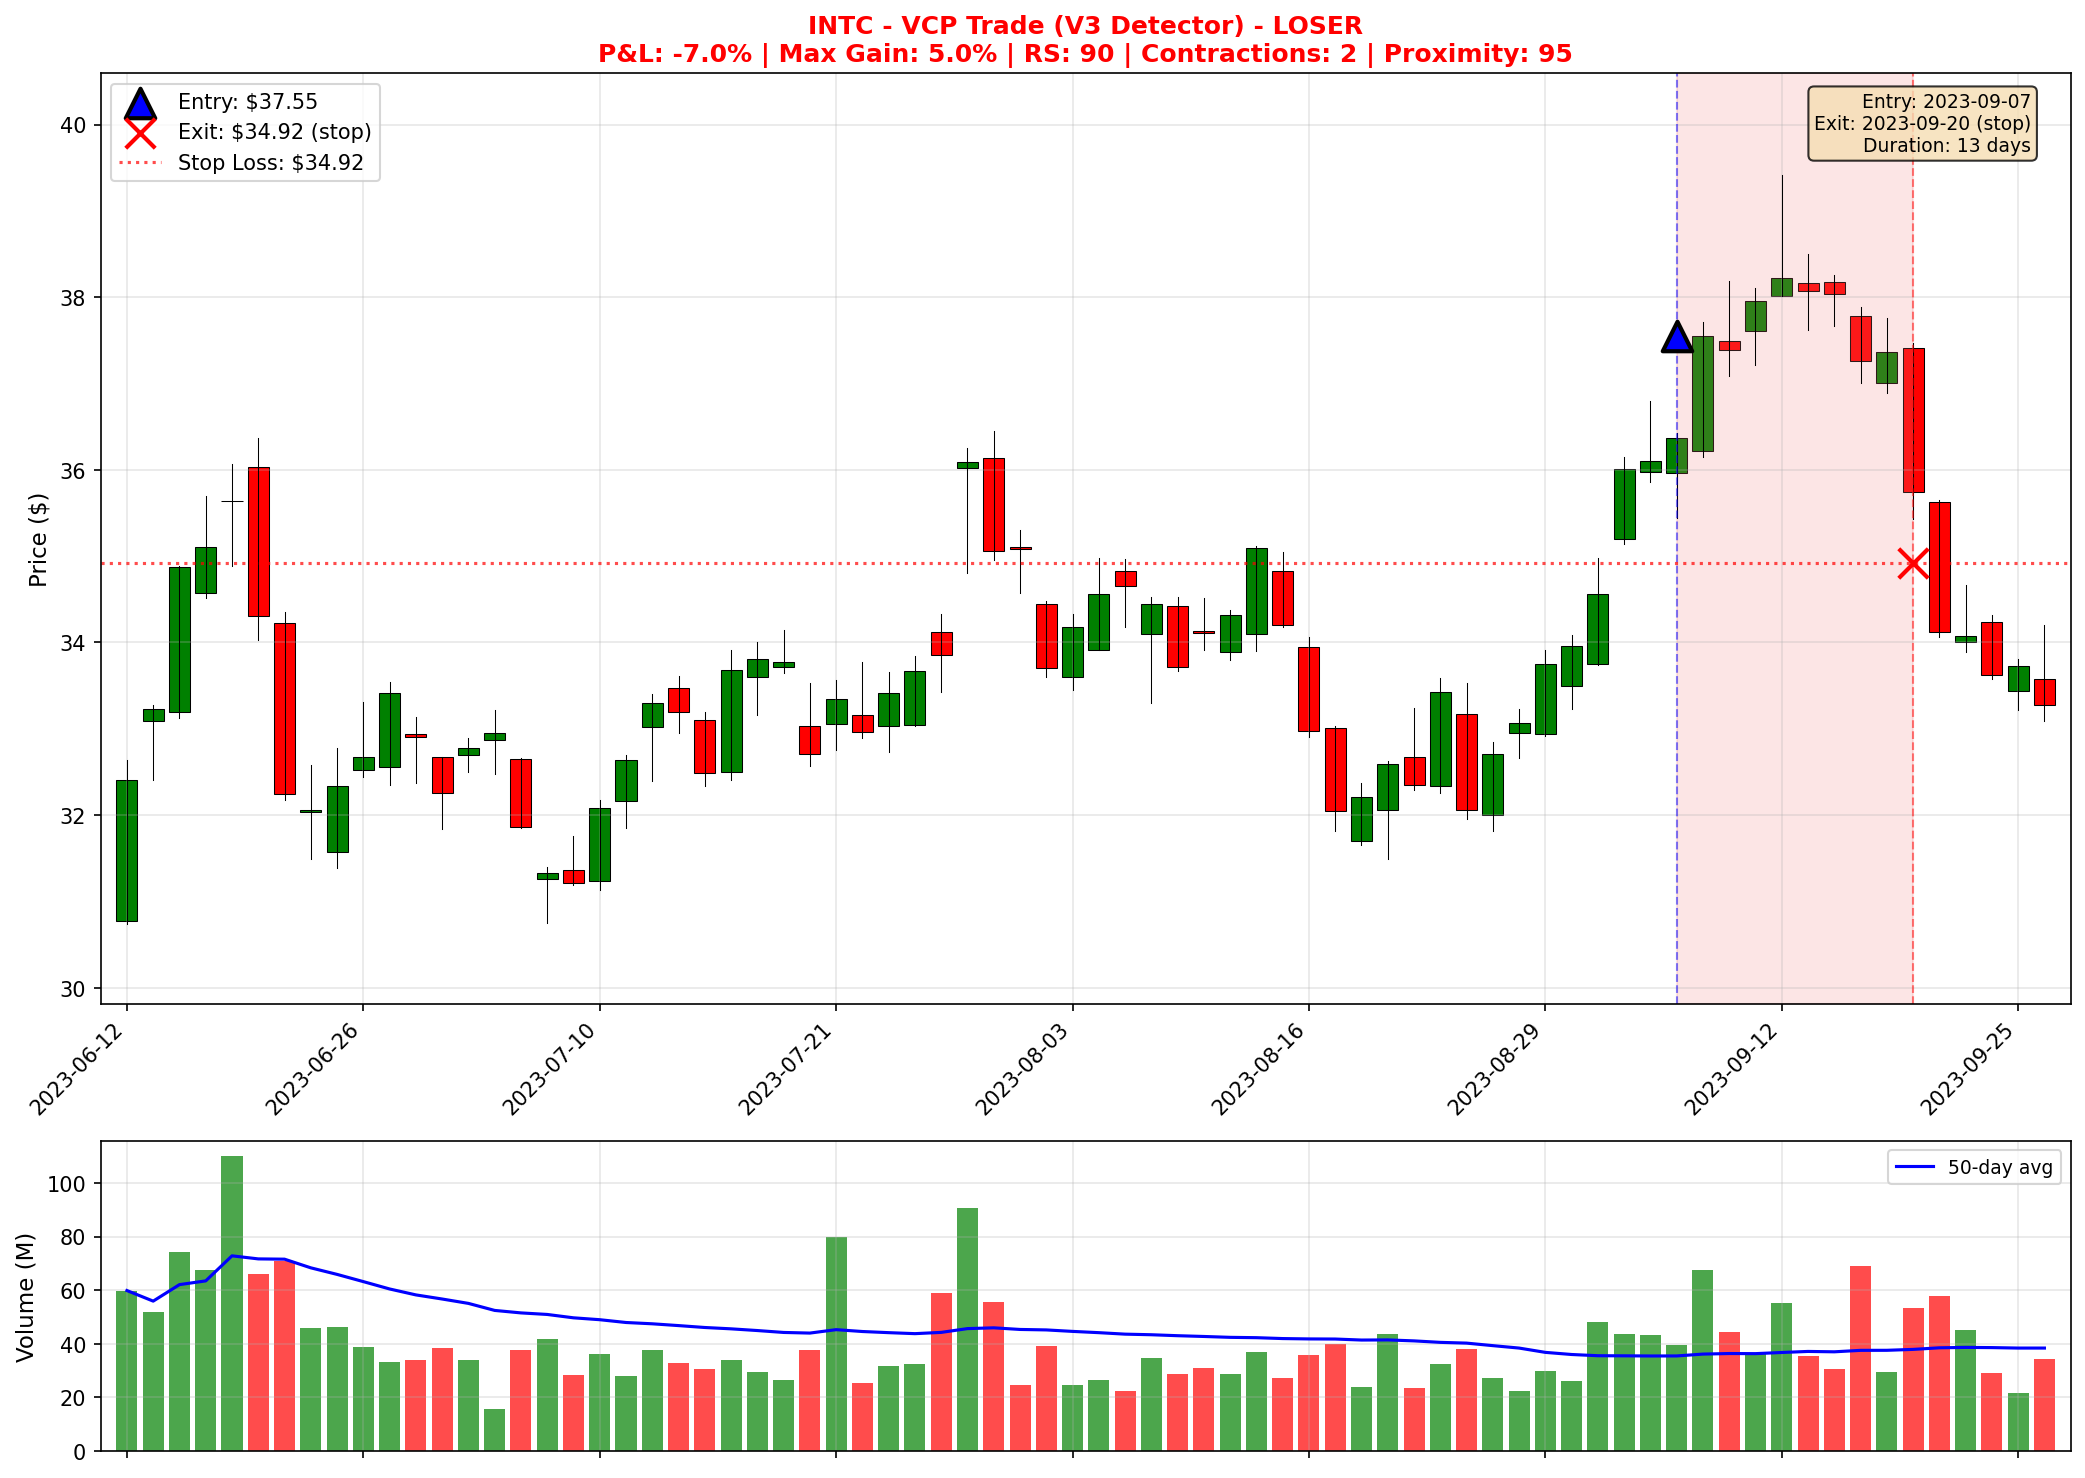
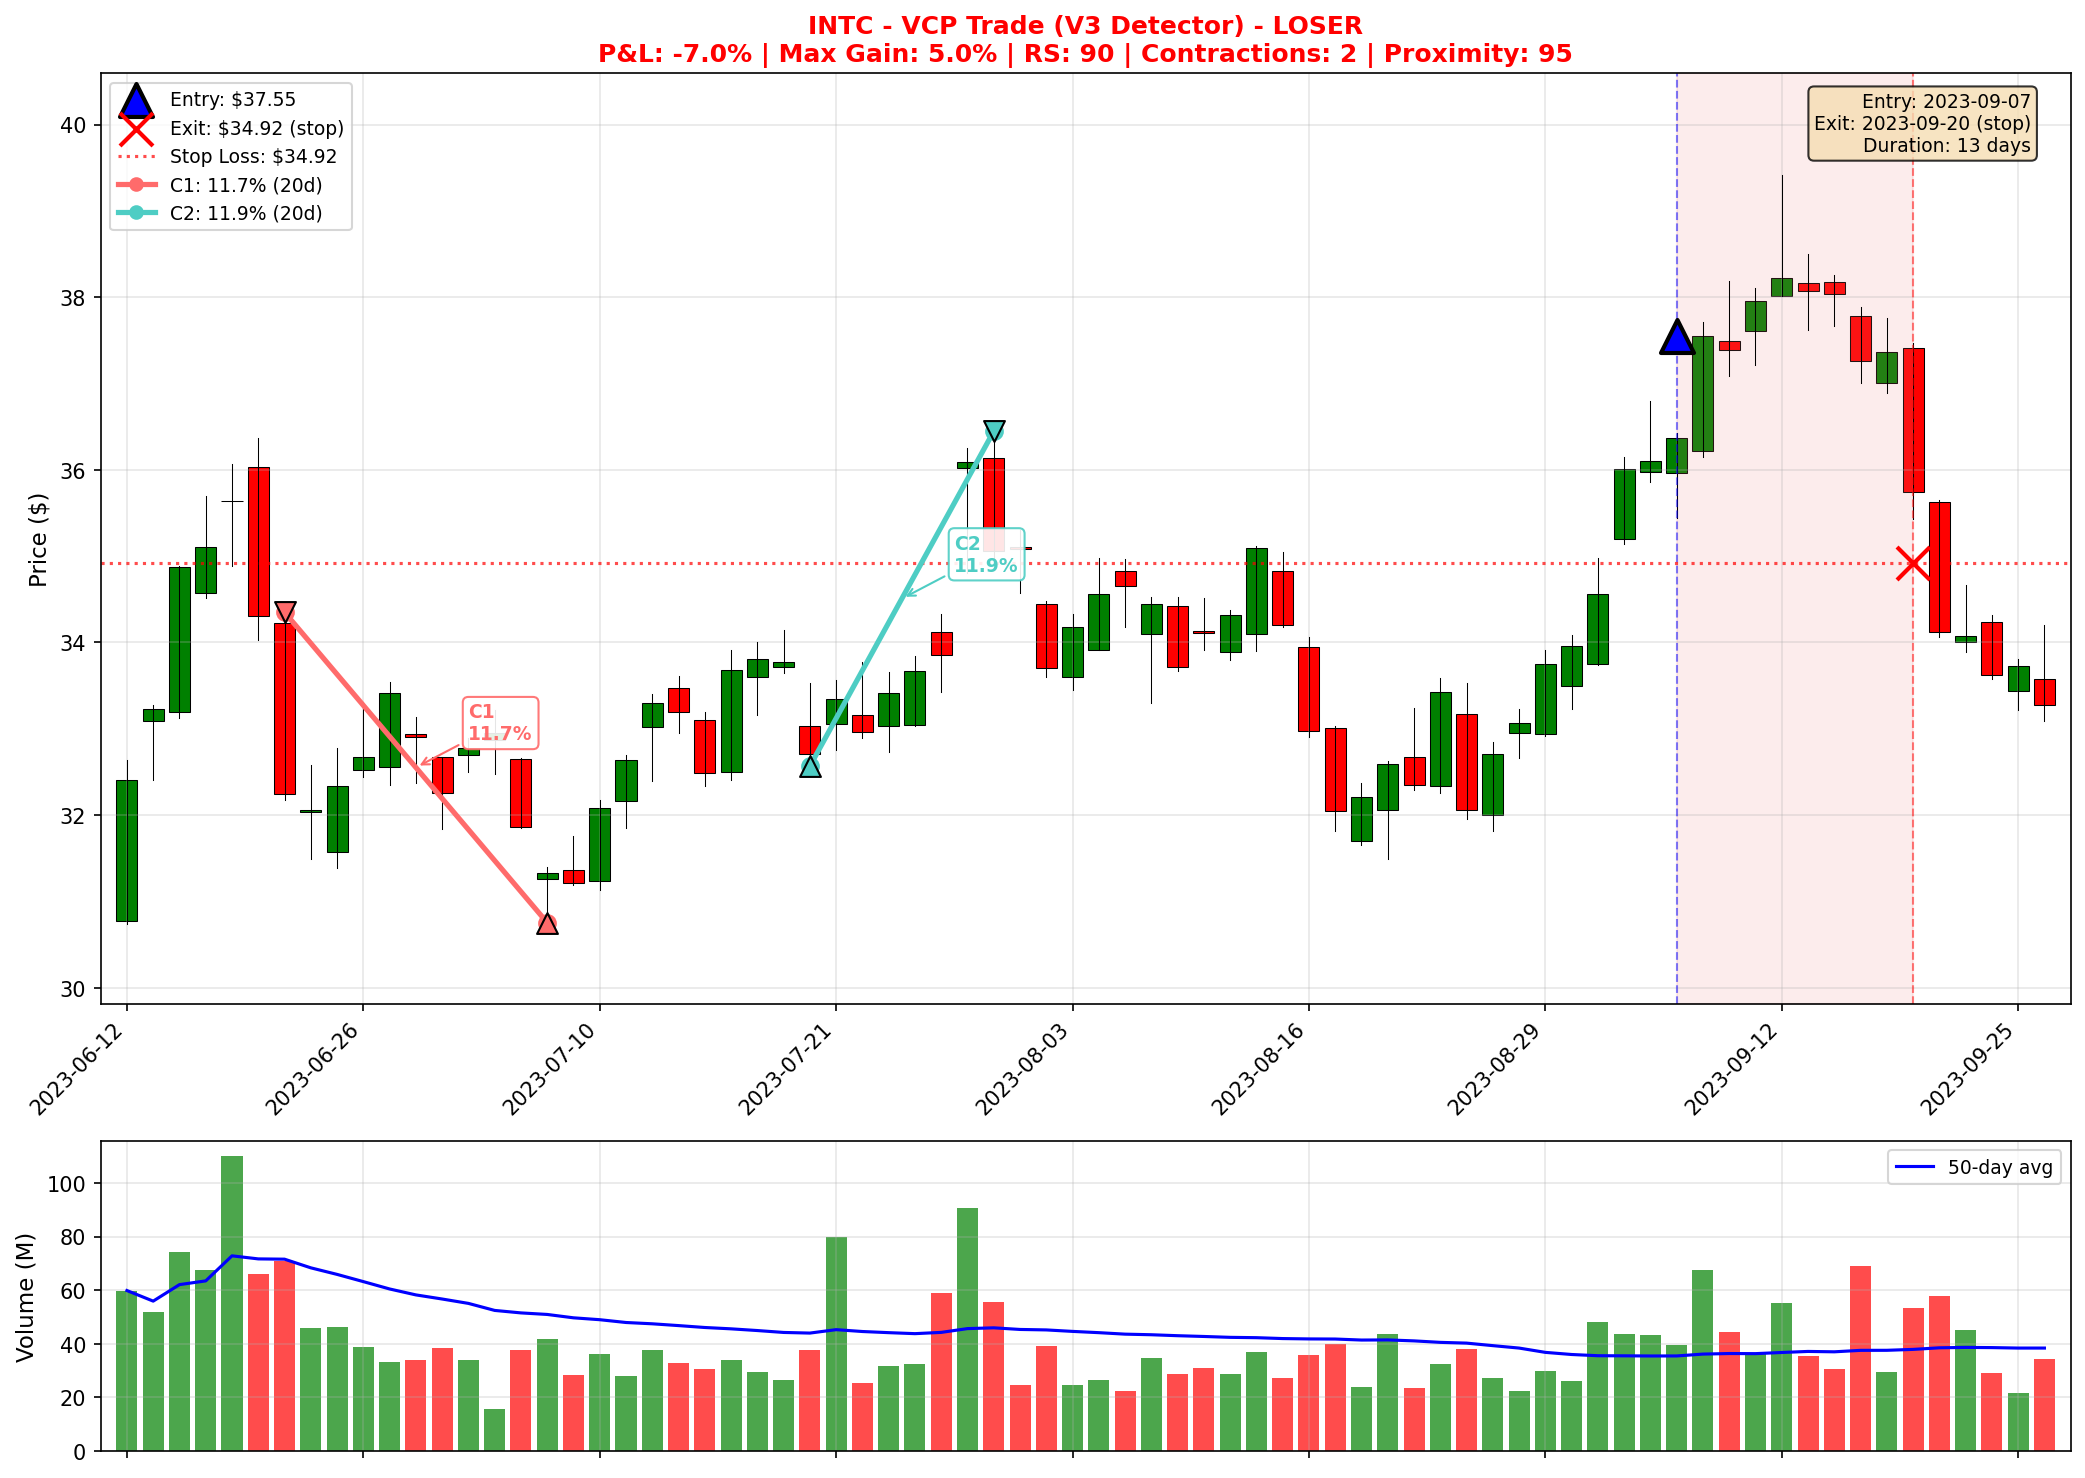
Update sample charts with VCP contraction trendlines and percentage labels
- Added detect_contractions_v2() function to generate_sample_charts.py
- Charts now display trendlines from swing high to swing low for each contraction
- Percentage labels (C1, C2, etc.) show contraction depth
- Triangle markers indicate high/low points of each contraction
- Regenerated all 10 sample pattern charts with VCP visualization

🤖 Generated with [Claude Code](https://claude.com/claude-code)

diff --git a/backtest/generate_sample_charts.py b/backtest/generate_sample_charts.py
@@ -6,7 +6,8 @@ Creates 10 sample charts showing detected VCP patterns from actual backtest trad
 - 5 winning trades (best performers)
 - 5 losing trades (stopped out)
 
-Charts illustrate the patterns detected by both V2 and V3 detectors.
+Charts illustrate the patterns detected by both V2 and V3 detectors,
+with VCP contractions marked using trendlines and percentage labels.
 """
 
 import pandas as pd
@@ -17,6 +18,8 @@ from matplotlib.lines import Line2D
 from pathlib import Path
 import yfinance as yf
 from datetime import datetime, timedelta
+from dataclasses import dataclass
+from typing import List, Optional
 import logging
 
 logging.basicConfig(level=logging.INFO, format='%(asctime)s - %(levelname)s - %(message)s')
@@ -28,6 +31,19 @@ OUTPUT_DIR.mkdir(parents=True, exist_ok=True)
 # Data cache directory
 CACHE_DIR = Path(__file__).parent.parent / 'cache'
 CACHE_DIR.mkdir(parents=True, exist_ok=True)
+
+
+@dataclass
+class Contraction:
+    """Represents a single contraction in VCP pattern"""
+    start_idx: int
+    end_idx: int
+    high: float
+    low: float
+    high_date: pd.Timestamp
+    low_date: pd.Timestamp
+    range_pct: float
+    duration_days: int
 
 
 def get_stock_data(symbol: str, start_date: str, end_date: str) -> pd.DataFrame:
@@ -49,6 +65,69 @@ def get_stock_data(symbol: str, start_date: str, end_date: str) -> pd.DataFrame:
     return df
 
 
+def detect_contractions_v2(df: pd.DataFrame, lookback_days: int = 120) -> List[Contraction]:
+    """
+    Detect contractions using V2 rolling window method.
+    Returns contractions with high/low points for visualization.
+    """
+    if len(df) < lookback_days:
+        return []
+
+    df_slice = df.tail(lookback_days).copy()
+
+    contractions = []
+
+    # Calculate rolling ranges
+    window = 20
+    df_slice['High_20'] = df_slice['High'].rolling(window=window).max()
+    df_slice['Low_20'] = df_slice['Low'].rolling(window=window).min()
+    df_slice['Range_20'] = (df_slice['High_20'] - df_slice['Low_20']) / df_slice['Low_20'] * 100
+    df_slice['Range_20'] = df_slice['Range_20'].fillna(method='bfill')
+
+    range_series = df_slice['Range_20'].values
+
+    i = 0
+    while i < len(range_series) - 20:
+        window_range = range_series[i:i+20]
+
+        if len(window_range) < 20:
+            break
+
+        max_range = np.max(window_range[:10])
+        min_range = np.min(window_range[10:])
+
+        if max_range > 0 and (max_range - min_range) / max_range > 0.3:
+            start_idx = i
+            end_idx = i + 20
+
+            # Find actual high and low within this contraction
+            high_val = df_slice['High'].iloc[start_idx:end_idx].max()
+            low_val = df_slice['Low'].iloc[start_idx:end_idx].min()
+
+            # Find dates of high and low
+            high_idx = df_slice['High'].iloc[start_idx:end_idx].idxmax()
+            low_idx = df_slice['Low'].iloc[start_idx:end_idx].idxmin()
+
+            range_pct = (high_val - low_val) / low_val * 100
+
+            contractions.append(Contraction(
+                start_idx=start_idx,
+                end_idx=end_idx,
+                high=high_val,
+                low=low_val,
+                high_date=high_idx,
+                low_date=low_idx,
+                range_pct=range_pct,
+                duration_days=20
+            ))
+
+            i = end_idx
+        else:
+            i += 5
+
+    return contractions
+
+
 def create_trade_chart(
     symbol: str,
     df: pd.DataFrame,
@@ -68,11 +147,11 @@ def create_trade_chart(
 ) -> None:
     """
     Create a trade chart showing:
-    - 60 days before entry
+    - 60 days before entry with VCP pattern marked
     - Entry point marked
     - Exit point marked
     - Stop loss line
-    - Trade outcome (profit/loss)
+    - Contractions shown as trendlines with percentages
     """
     # Find entry and exit dates in data
     entry_dt = pd.to_datetime(entry_date)
@@ -92,6 +171,11 @@ def create_trade_chart(
     if len(df_plot) < 10:
         logging.warning(f"Not enough data for {symbol}")
         return
+
+    # Detect contractions in the pre-entry period
+    entry_plot_idx = df_plot.index.get_indexer([entry_dt], method='nearest')[0]
+    df_pre_entry = df_plot.iloc[:entry_plot_idx+1]
+    contractions = detect_contractions_v2(df_pre_entry, lookback_days=min(60, len(df_pre_entry)))
 
     # Create figure
     fig, axes = plt.subplots(2, 1, figsize=(14, 10),
@@ -119,9 +203,58 @@ def create_trade_chart(
         )
         ax_price.add_patch(rect)
 
-    # Find positions for entry and exit
+    # Create date to position mapping
     date_to_pos = {date: i for i, date in enumerate(df_plot.index)}
 
+    # Draw contractions as trendlines
+    contraction_colors = ['#FF6B6B', '#4ECDC4', '#45B7D1', '#96CEB4', '#DDA0DD']
+
+    y_min = df_plot['Low'].min() * 0.97
+    y_max = df_plot['High'].max() * 1.03
+
+    # Take last 2-4 contractions for display
+    display_contractions = contractions[-4:] if len(contractions) >= 4 else contractions[-2:] if len(contractions) >= 2 else contractions
+
+    for c_idx, contraction in enumerate(display_contractions):
+        color = contraction_colors[c_idx % len(contraction_colors)]
+
+        # Find positions for high and low dates
+        if contraction.high_date in date_to_pos and contraction.low_date in date_to_pos:
+            high_pos = date_to_pos[contraction.high_date]
+            low_pos = date_to_pos[contraction.low_date]
+
+            # Draw trendline from high to low
+            ax_price.plot([high_pos, low_pos], [contraction.high, contraction.low],
+                         color=color, linewidth=2.5, linestyle='-',
+                         marker='o', markersize=8, zorder=8)
+
+            # Add contraction percentage label
+            mid_pos = (high_pos + low_pos) / 2
+            mid_price = (contraction.high + contraction.low) / 2
+
+            label_offset = (y_max - y_min) * 0.03
+            ax_price.annotate(
+                f'C{c_idx+1}\n{contraction.range_pct:.1f}%',
+                xy=(mid_pos, mid_price),
+                xytext=(mid_pos + 2, mid_price + label_offset),
+                fontsize=9,
+                fontweight='bold',
+                color=color,
+                bbox=dict(boxstyle='round,pad=0.3', facecolor='white',
+                         edgecolor=color, alpha=0.9),
+                arrowprops=dict(arrowstyle='->', color=color, lw=1),
+                zorder=15
+            )
+
+            # Mark high with down triangle
+            ax_price.scatter(high_pos, contraction.high, marker='v', color=color,
+                           s=100, zorder=9, edgecolor='black', linewidth=1)
+
+            # Mark low with up triangle
+            ax_price.scatter(low_pos, contraction.low, marker='^', color=color,
+                           s=100, zorder=9, edgecolor='black', linewidth=1)
+
+    # Find positions for entry and exit
     entry_pos = None
     exit_pos = None
 
@@ -138,7 +271,7 @@ def create_trade_chart(
     # Draw entry marker
     if entry_pos is not None:
         ax_price.scatter(entry_pos, entry_price, marker='^', color='blue',
-                        s=200, zorder=10, edgecolor='black', linewidth=2,
+                        s=250, zorder=12, edgecolor='black', linewidth=2,
                         label=f'Entry: ${entry_price:.2f}')
         ax_price.axvline(x=entry_pos, color='blue', linestyle='--', alpha=0.5, linewidth=1)
 
@@ -147,7 +280,8 @@ def create_trade_chart(
         exit_color = 'green' if pnl_pct > 0 else 'red'
         marker = 'v' if pnl_pct > 0 else 'x'
         ax_price.scatter(exit_pos, exit_price, marker=marker, color=exit_color,
-                        s=200, zorder=10, edgecolor='black', linewidth=2,
+                        s=250, zorder=12, edgecolor='black' if marker == 'v' else exit_color,
+                        linewidth=2,
                         label=f'Exit: ${exit_price:.2f} ({exit_reason})')
         ax_price.axvline(x=exit_pos, color=exit_color, linestyle='--', alpha=0.5, linewidth=1)
 
@@ -158,7 +292,7 @@ def create_trade_chart(
     # Shade the trade period
     if entry_pos is not None and exit_pos is not None:
         shade_color = 'lightgreen' if pnl_pct > 0 else 'lightcoral'
-        ax_price.axvspan(entry_pos, exit_pos, alpha=0.2, color=shade_color)
+        ax_price.axvspan(entry_pos, exit_pos, alpha=0.15, color=shade_color)
 
     # Set axis properties
     x_ticks = list(range(0, len(df_plot), max(1, len(df_plot) // 8)))
@@ -167,11 +301,7 @@ def create_trade_chart(
     ax_price.set_xticklabels(x_labels, rotation=45, ha='right')
     ax_price.set_xlim(-1, len(df_plot))
     ax_price.set_ylabel('Price ($)', fontsize=11)
-
-    y_min = df_plot['Low'].min() * 0.97
-    y_max = df_plot['High'].max() * 1.03
     ax_price.set_ylim(y_min, y_max)
-
     ax_price.legend(loc='upper left', fontsize=10)
     ax_price.grid(True, alpha=0.3)
 
@@ -209,11 +339,23 @@ def create_trade_chart(
                  fontsize=9, verticalalignment='top', horizontalalignment='right',
                  bbox=dict(boxstyle='round', facecolor='wheat', alpha=0.8))
 
+    # Add contraction legend
+    if display_contractions:
+        contraction_legend = []
+        for c_idx, c in enumerate(display_contractions):
+            color = contraction_colors[c_idx % len(contraction_colors)]
+            contraction_legend.append(
+                Line2D([0], [0], color=color, linewidth=2.5, marker='o', markersize=6,
+                       label=f'C{c_idx+1}: {c.range_pct:.1f}% ({c.duration_days}d)')
+            )
+        ax_price.legend(handles=ax_price.get_legend_handles_labels()[0] + contraction_legend,
+                       loc='upper left', fontsize=9)
+
     plt.tight_layout()
     plt.savefig(save_path, dpi=150, bbox_inches='tight', facecolor='white')
     plt.close()
 
-    logging.info(f"Saved: {save_path.name}")
+    logging.info(f"Saved: {save_path.name} ({len(display_contractions)} contractions shown)")
 
 
 def generate_sample_charts():
